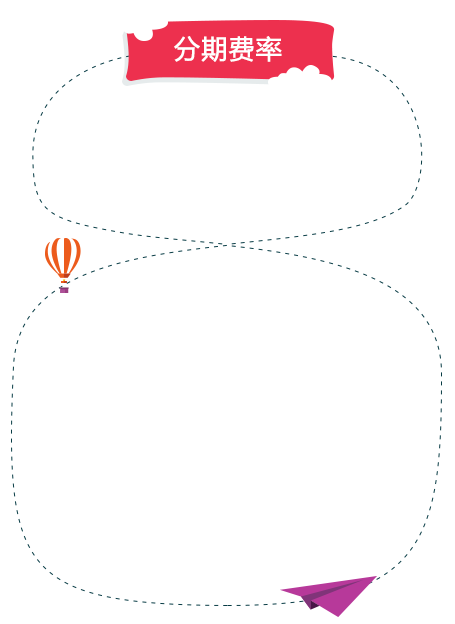
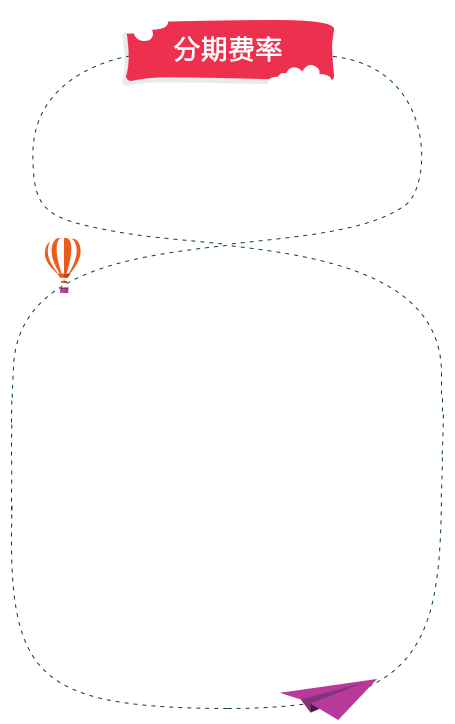
改版手机端 新手引导页

diff --git a/webapp/res/css/guide.css b/webapp/res/css/guide.css
@@ -41,22 +41,24 @@ html,body{overflow:auto;overflow-x:hidden;}
 .ui_main .top{position:relative;background-color:#fff6e5;}
 .ui_main .top .top_img{max-width:100%;}
 .ui_main .top .top_row{position:absolute;top:5%;left:30%;width:10%;}
-.ui_main .middle{height:425px;padding-top:20px;position:relative;background:url('../images/guide_middle_bg.png') no-repeat center top;background-size:310px auto;background-color:#fff6e5;}
+.ui_main .middle{height:482px;padding-top:20px;position:relative;background:url('../images/guide_middle_bg.png') no-repeat center top;background-size:310px auto;background-color:#fff6e5;}
 .ui_main .middle .p1{text-align:center;left:0;right:0;font-size:15px;position:absolute;top:80px
 ;line-height:25px;}
 .ui_main .middle .p2{text-align:center;margin:0 auto;left:0;right:0;font-size:14px;position:absolute;top:170px;line-height:19px;}
-.ui_main .middle .p2 .p_text{text-align:left;width:266px;margin:0 auto;max-width:85%;}
-.ui_main .middle .p2 .title{font-size:17px;font-weight:600;line-height:40px;text-align:center;}
+.ui_main .middle .p2 .p_text{text-align:left;width:231px;margin:0 auto;max-width:85%;}
+.ui_main .middle .p2 .title{font-size:17px;font-weight:600;line-height:55px;text-align:center;}
 .ui_main .middle .color{color:#ef1a41;}
 .ui_main .bottom{padding-top:50px;background:url('../images/row3.png') no-repeat -50% 24px;background-color:#fdf0d7;background-size:30% auto;position:relative;}
-.ui_main .bottom .bottom_img{max-width:100%;}
+.ui_main .bottom .bottom_img{max-width:100%;vertical-align:bottom;}
 .ui_main .bottom .row2{width:15%;position:absolute;top:0px;left:-20%;}
 /* .ui_main .bottom .row3{width:30%;position:absolute;top:25px;left:-20%;} */
-.ui_main .file_div{}
+.ui_main .file_div2{padding-top:15px;}
 .ui_main .file_div .hill{max-width:100%;vertical-align: bottom;}
 .ui_main .file_div .messge_text{height:195px;background:url('../images/file_div_bg.png') no-repeat center top;background-size:300px auto;background-color:#fdf0d7;color:#5c2e0d;font-size:15px;line-height:22px;}
+.ui_main .file_div2 .messge_text{text-align:center;height:174px;background:url('../images/file_div_bg2.png') no-repeat center top;background-size:300px auto;background-color:#fff6e5;color:#000;font-size:14px;line-height:22px;}
 .ui_main .file_div .messge_text h4{margin:9px 0 16px;display:inline-block;width:100%;font-size:14px;color:#fff;text-align:center;}
 .ui_main .file_div .messge_text p{width:282px;max-width:100%;margin:0 auto;}
+.ui_main .file_div2 .messge_text p{width:216px;max-width:100%;margin:0 auto;}
 .ui_main .file_div .messge_text .p2{font-size:14px;margin-top:3px;}
 .ui_main .file_div span.color{color:#e94e01;}
 

diff --git a/webapp/mystaging/guide.html b/webapp/mystaging/guide.html
@@ -6,8 +6,8 @@
     <meta content="yes" name="apple-mobile-web-app-capable">
     <meta content="black" name="apple-mobile-web-app-status-bar-style">
 	<meta name="format-detection" content="telephone=no"/>
-    <link rel="stylesheet" href="../res/css/guide.css" />
 	<link rel="stylesheet" href="../res/css/common.css" />
+	<link rel="stylesheet" href="../res/css/guide.css" />
 	<title>新手引导页</title>
 </head>
 <body>
@@ -22,18 +22,31 @@
 			<img class="top_row" src="../res/images/row.png" />
 			<img class="top_img" src="../res/images/guide_top.png" />
 		</div>
+		<div class="file_div file_div2">
+			<div class="messge_text">
+				<h4>什么是家装分期?</h4>
+				<p class="p1">
+					家装分期是燕子安家为您代付装修款，
+					您再向燕子安家分期还款，
+					可以为您解决资金紧张和资金周转不开的难题。
+				</p>
+			</div>
+		</div>
 		<div class="middle">
-			<p class="p1">燕子安家分期<span class="color">0利息</span>，仅收取<span class="color">服务费</span>。<br/>服务费在审批通过后<span class="color">一次性</span>收取。</p>
+			<p class="p1">燕子安家分期<span class="color">0利息</span>，仅收取<span class="color">服务费</span>。<br/>服务费在审批通过后<span class="color">一次性或分期</span>收取。</p>
 			<div class="p2">
 				<span class="title color">举例说明</span>
 				<p class="p_text">					
-					6期（指6个月）的月费率为0.67%，服务费需一次性缴纳。<br/>
-					陈某申请总额为12万，期数为6期的分期。<br/>
+					陈先生申请总额为12万，期数为6期的分期。<br/>
+					一次性支付：<br/>
 					<span class="color">6个月费率=0.67%*6 =4%</span><br/>
 					<span class="color">服务费=120000*0.04=4800</span><br/>
 					<span class="color">月还款额=120000/6期=20000</span><br/>
-					则陈某需在审批通过后一次性缴纳4800元服务费，<br/>
-					每月还款2万元。
+					分期支付：<br/>
+					<span class="color">月费率=0.7%</span><br/>
+					<span class="color">月还服务费=120000*0.007=840</span><br/>
+					<span class="color">月还款本金=120000/6 =20000</span><br/>
+					<span class="color">月还款额=20000+840 = 20840</span>
 				</p>
 			</div>
 		</div>

diff --git a/res/css/common.css b/res/css/common.css
@@ -1574,7 +1574,7 @@ to{-webkit-transform:rotate(360deg) translateZ(0);}*/
     display: block;
     height: 22px;
     position: absolute;
-    left:26px;padding:0;
+    left:11px;padding:0;
     top: 11px;
     width: 22px;
 	cursor:pointer;
@@ -1584,7 +1584,7 @@ to{-webkit-transform:rotate(360deg) translateZ(0);}*/
     display: block;
     height: 22px;
     position: absolute;
-    left:26px;padding:0;
+    left:11px;padding:0;
     top: 11px;
     width: 22px;
 	cursor:pointer;
